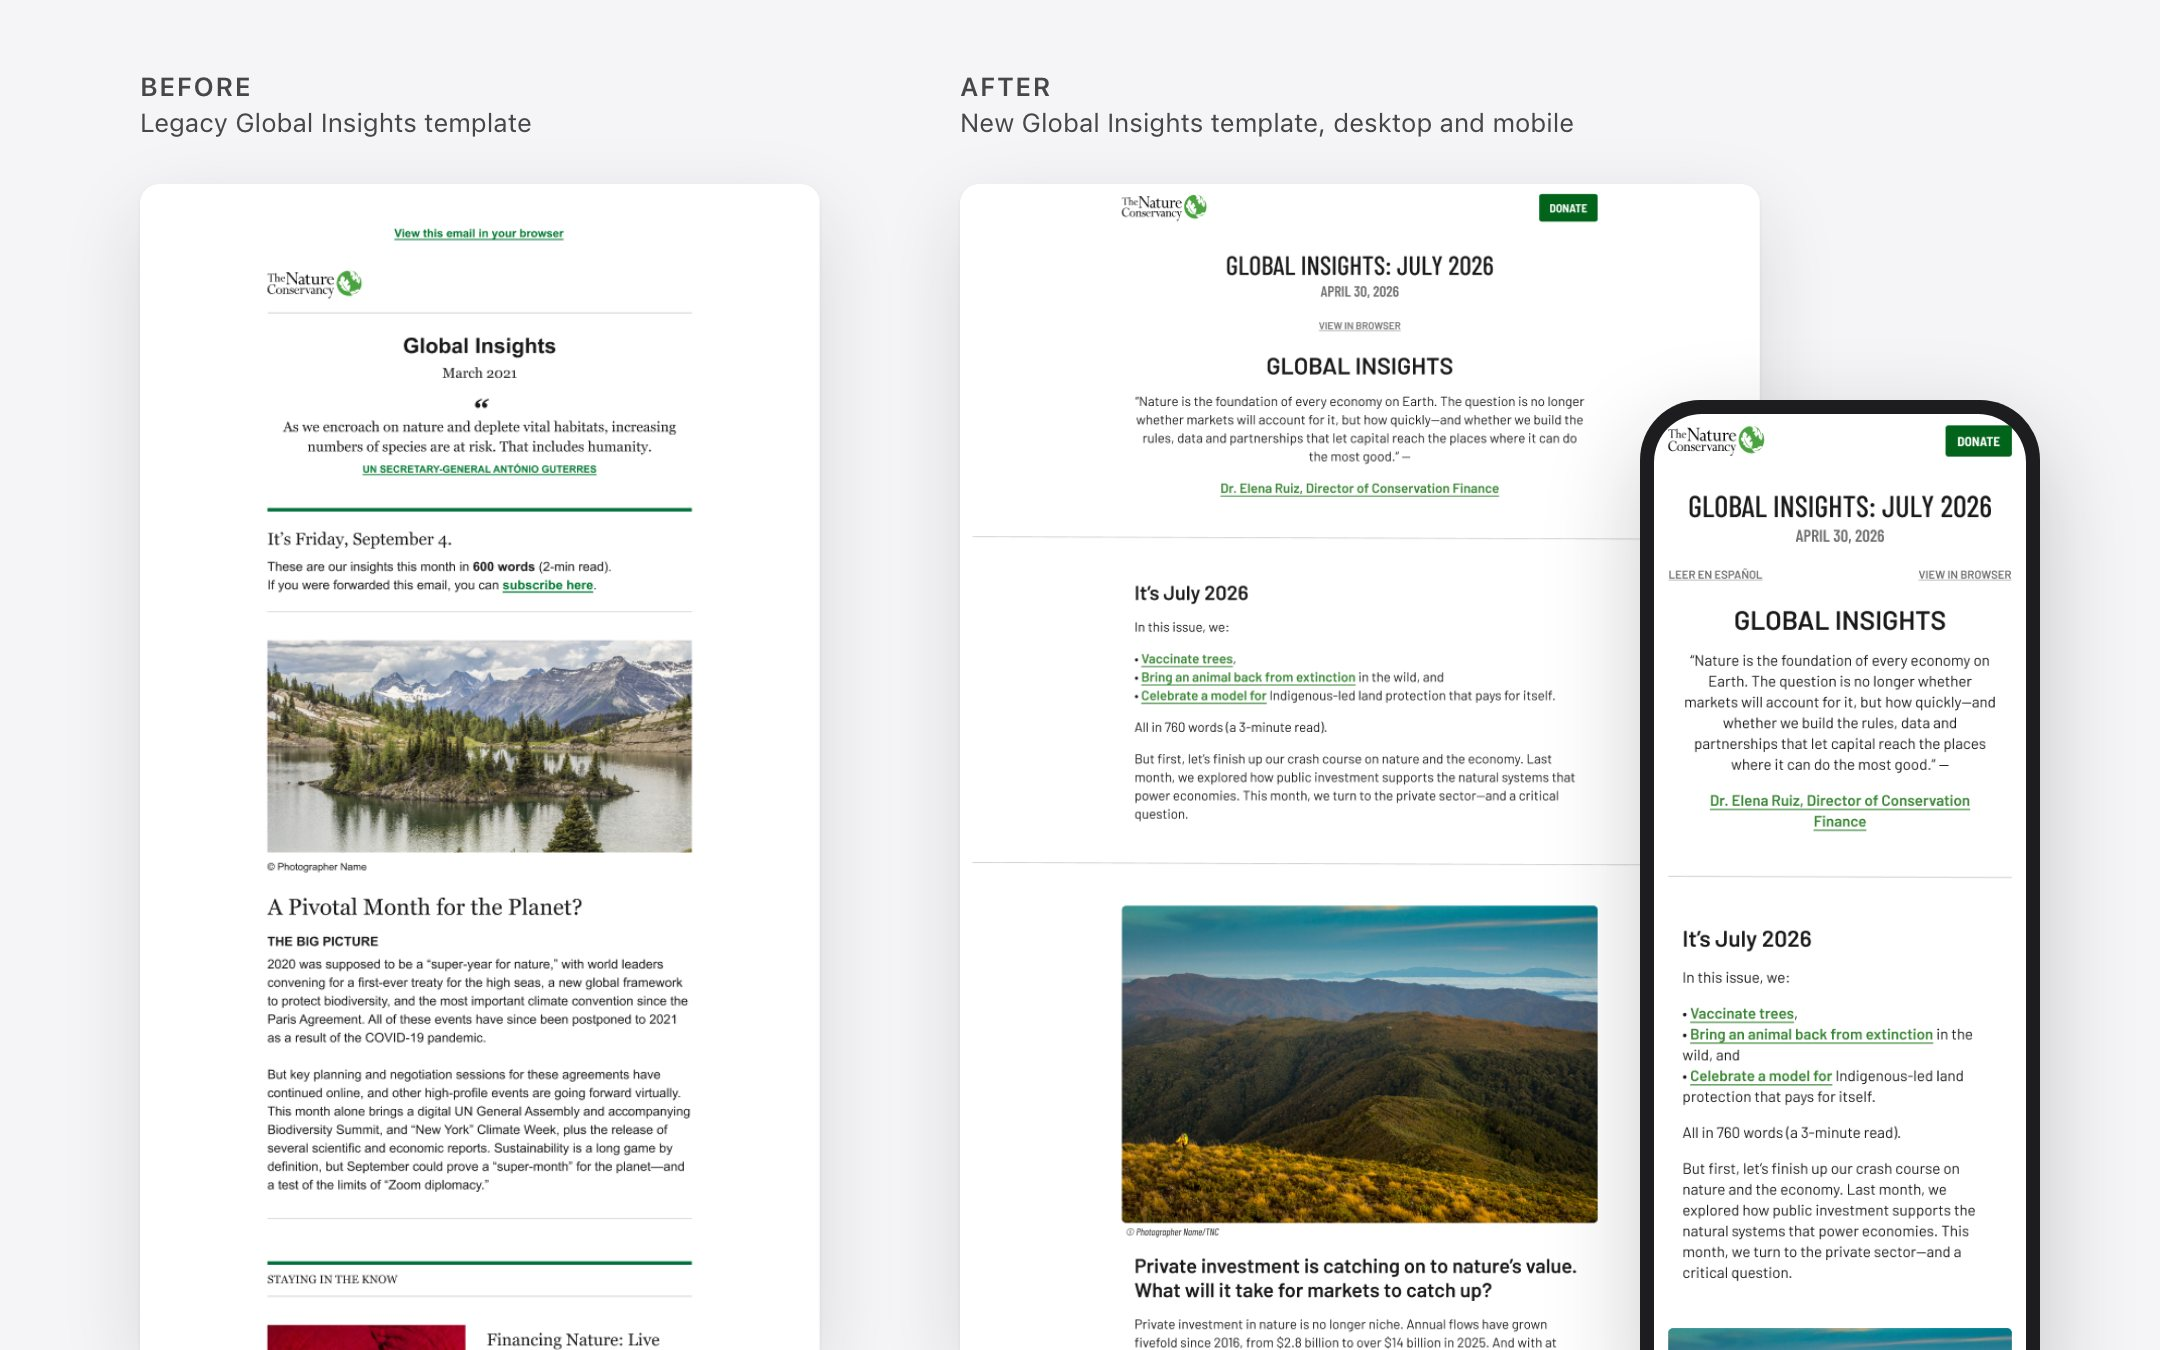
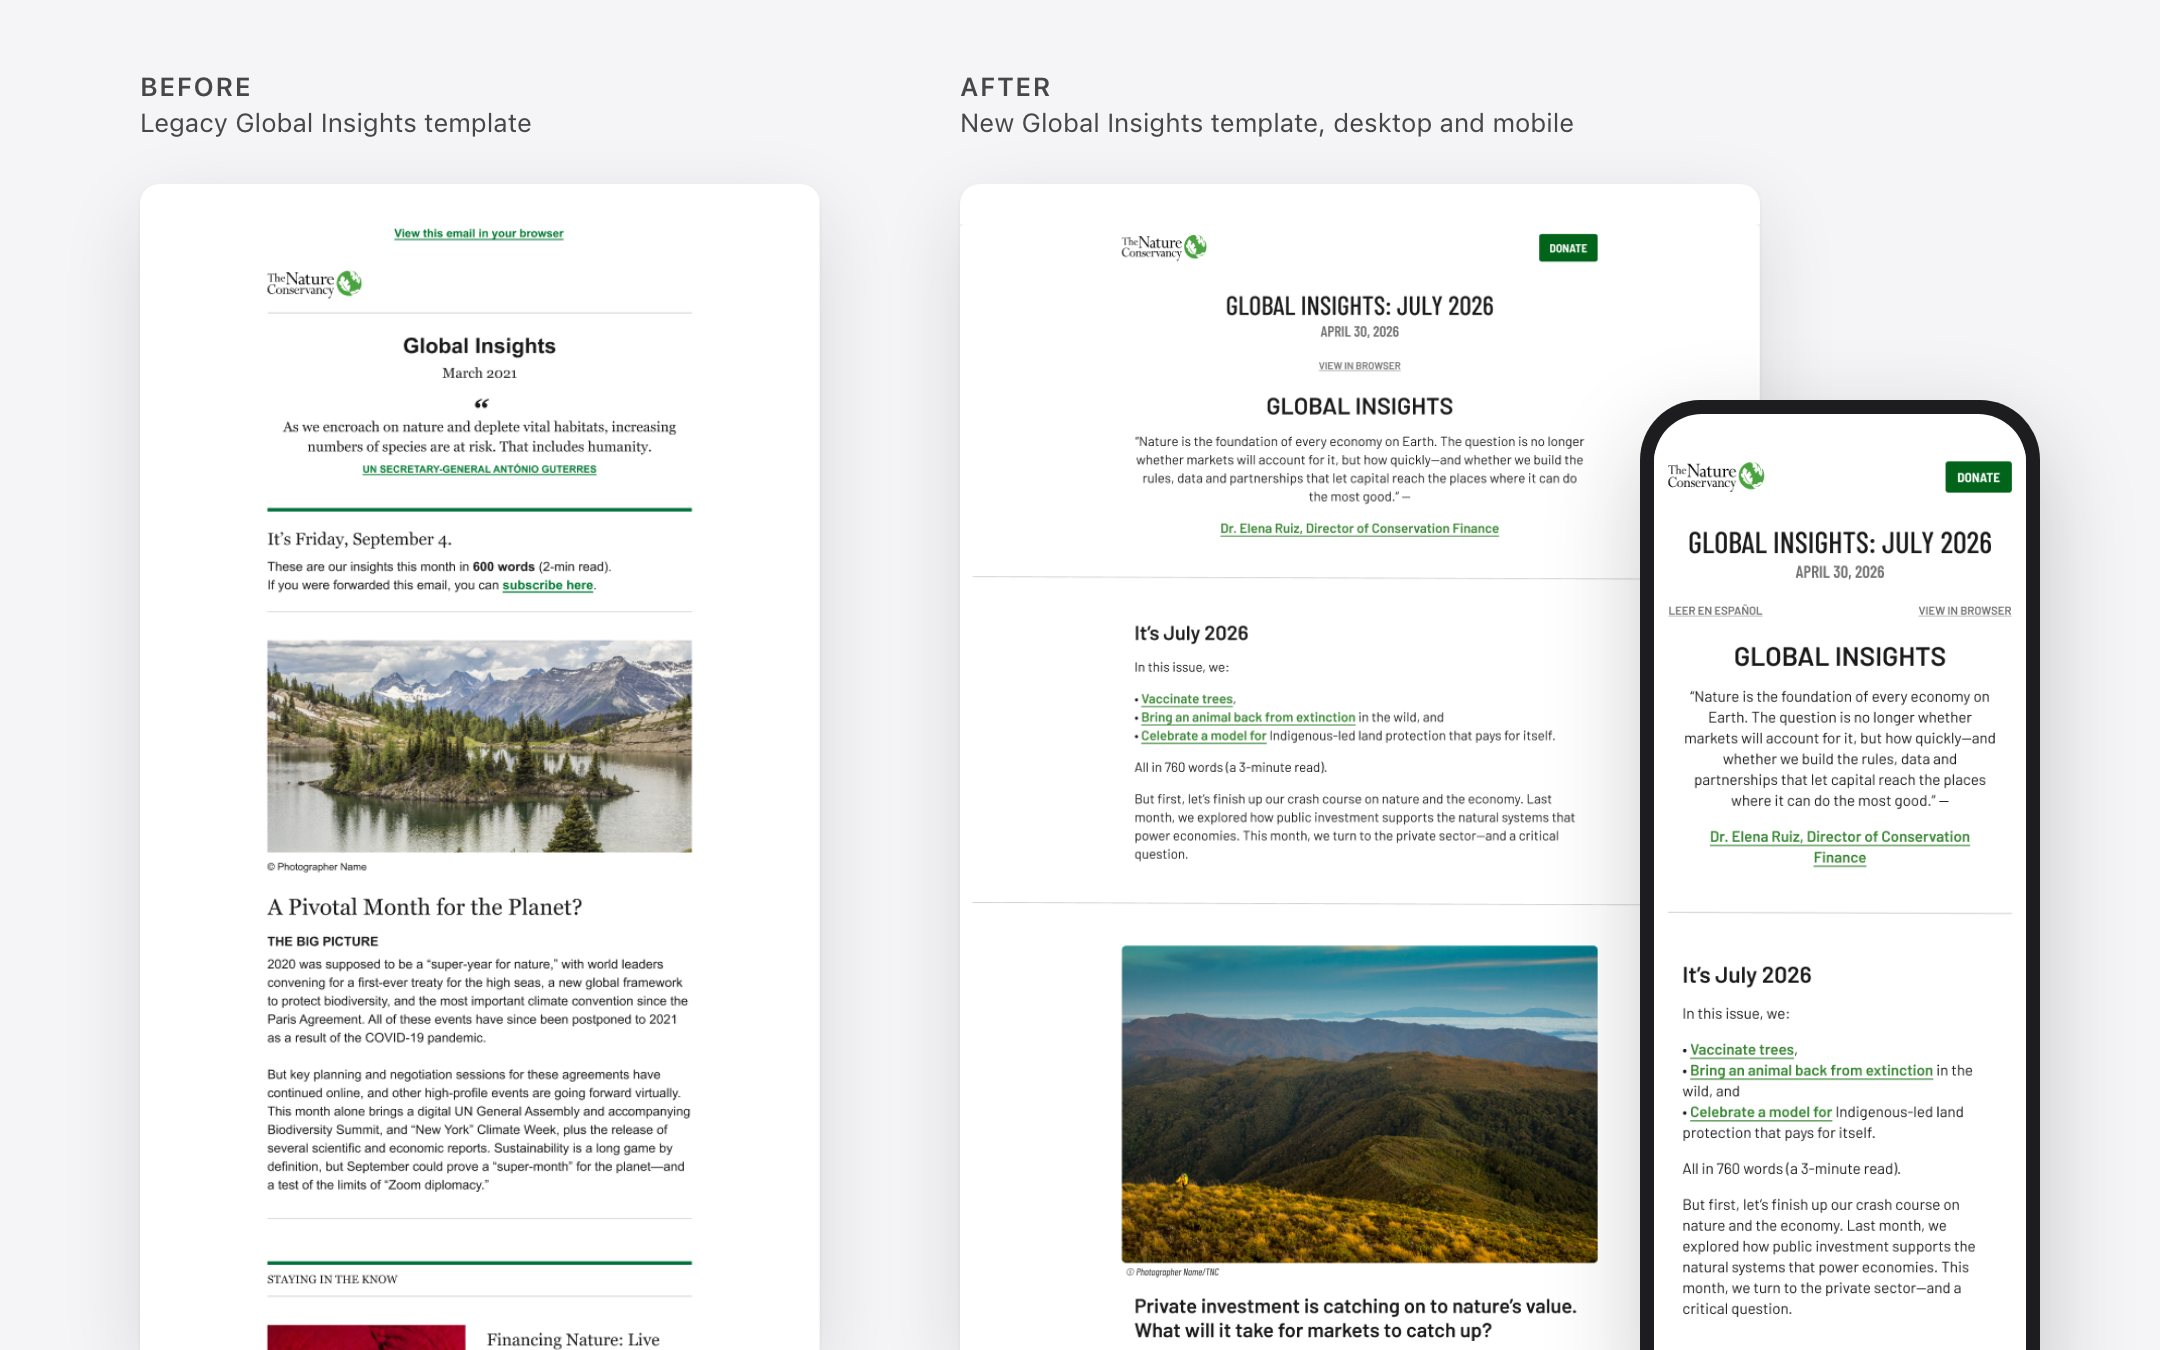
Fix Email images and add phone versions of wide case-study images (#15)
Email hero: adds space above the new template's logo and Donate button
on desktop and in the phone, so they no longer sit on the edge.

Email Decision 02: aligns the Headline, Image, and Button labels with
the headline, the image, and the button.

Phone audit: the four wide images (Email hero, Gateway hero, Gateway
before/after, Gateway filtering) shrank to about 340px on phones and
their labels became unreadable. Each now has a stacked phone version,
served through <picture> below 730px.

diff --git a/conservation-gateway/index.html b/conservation-gateway/index.html
@@ -552,7 +552,10 @@
     </header>
 
     <figure class="cs-figure">
-      <img src="/conservation-gateway/gateway-hero.jpg" width="2160" height="1350" alt="The redesigned Explore All Resources page on desktop and mobile, filtered to Tool, North America, and Freshwater, showing 6 results.">
+      <picture>
+        <source media="(max-width: 730px)" srcset="/conservation-gateway/gateway-hero-m.jpg" width="800" height="1000">
+        <img src="/conservation-gateway/gateway-hero.jpg" width="2160" height="1350" alt="The redesigned Explore All Resources page on desktop and mobile, filtered to Tool, North America, and Freshwater, showing 6 results.">
+      </picture>
       <figcaption>Explore All Resources, the new home of the library, on desktop and mobile.</figcaption>
     </figure>
 
@@ -587,7 +590,10 @@
     </section>
 
     <figure class="cs-figure">
-      <img src="/conservation-gateway/gateway-before-after.jpg" width="2160" height="1520" loading="lazy" alt="Before: the legacy North America page, with a hand-linked partial list of materials and search modules showing errors. After: the new resource library filtered to North America, showing 1,045 tagged resources.">
+      <picture>
+        <source media="(max-width: 730px)" srcset="/conservation-gateway/gateway-before-after-m.jpg" width="800" height="1640">
+        <img src="/conservation-gateway/gateway-before-after.jpg" width="2160" height="1520" loading="lazy" alt="Before: the legacy North America page, with a hand-linked partial list of materials and search modules showing errors. After: the new resource library filtered to North America, showing 1,045 tagged resources.">
+      </picture>
       <figcaption>The same question, &ldquo;what do we have for North America?&rdquo;, on the legacy site and the new one.</figcaption>
     </figure>
 
@@ -780,7 +786,10 @@
     </figure>
 
     <figure class="cs-figure">
-      <img src="/conservation-gateway/gateway-filtering.jpg" width="2160" height="980" loading="lazy" alt="The full library showing 2,073 resources, then the same page with Tool, North America, and Freshwater checked, showing 6 resources.">
+      <picture>
+        <source media="(max-width: 730px)" srcset="/conservation-gateway/gateway-filtering-m.jpg" width="800" height="1400">
+        <img src="/conservation-gateway/gateway-filtering.jpg" width="2160" height="980" loading="lazy" alt="The full library showing 2,073 resources, then the same page with Tool, North America, and Freshwater checked, showing 6 resources.">
+      </picture>
       <figcaption>Three filters take the library from 2,073 resources to 6. Captured October 2026, with migration of the full 5,000+ still underway.</figcaption>
     </figure>
 

diff --git a/tnc-email/index.html b/tnc-email/index.html
@@ -212,7 +212,10 @@
     </header>
 
     <figure class="cs-figure">
-      <img src="/tnc-email/email-before-after.jpg" width="2160" height="1350" alt="Before: the legacy Global Insights newsletter template. After: the new Global Insights template on desktop and mobile, built from the shared component system.">
+      <picture>
+        <source media="(max-width: 730px)" srcset="/tnc-email/email-before-after-m.jpg" width="800" height="1320">
+        <img src="/tnc-email/email-before-after.jpg" width="2160" height="1350" alt="Before: the legacy Global Insights newsletter template. After: the new Global Insights template on desktop and mobile, built from the shared component system.">
+      </picture>
       <figcaption>The Global Insights newsletter, before and after. Designed in Figma.</figcaption>
     </figure>
 
